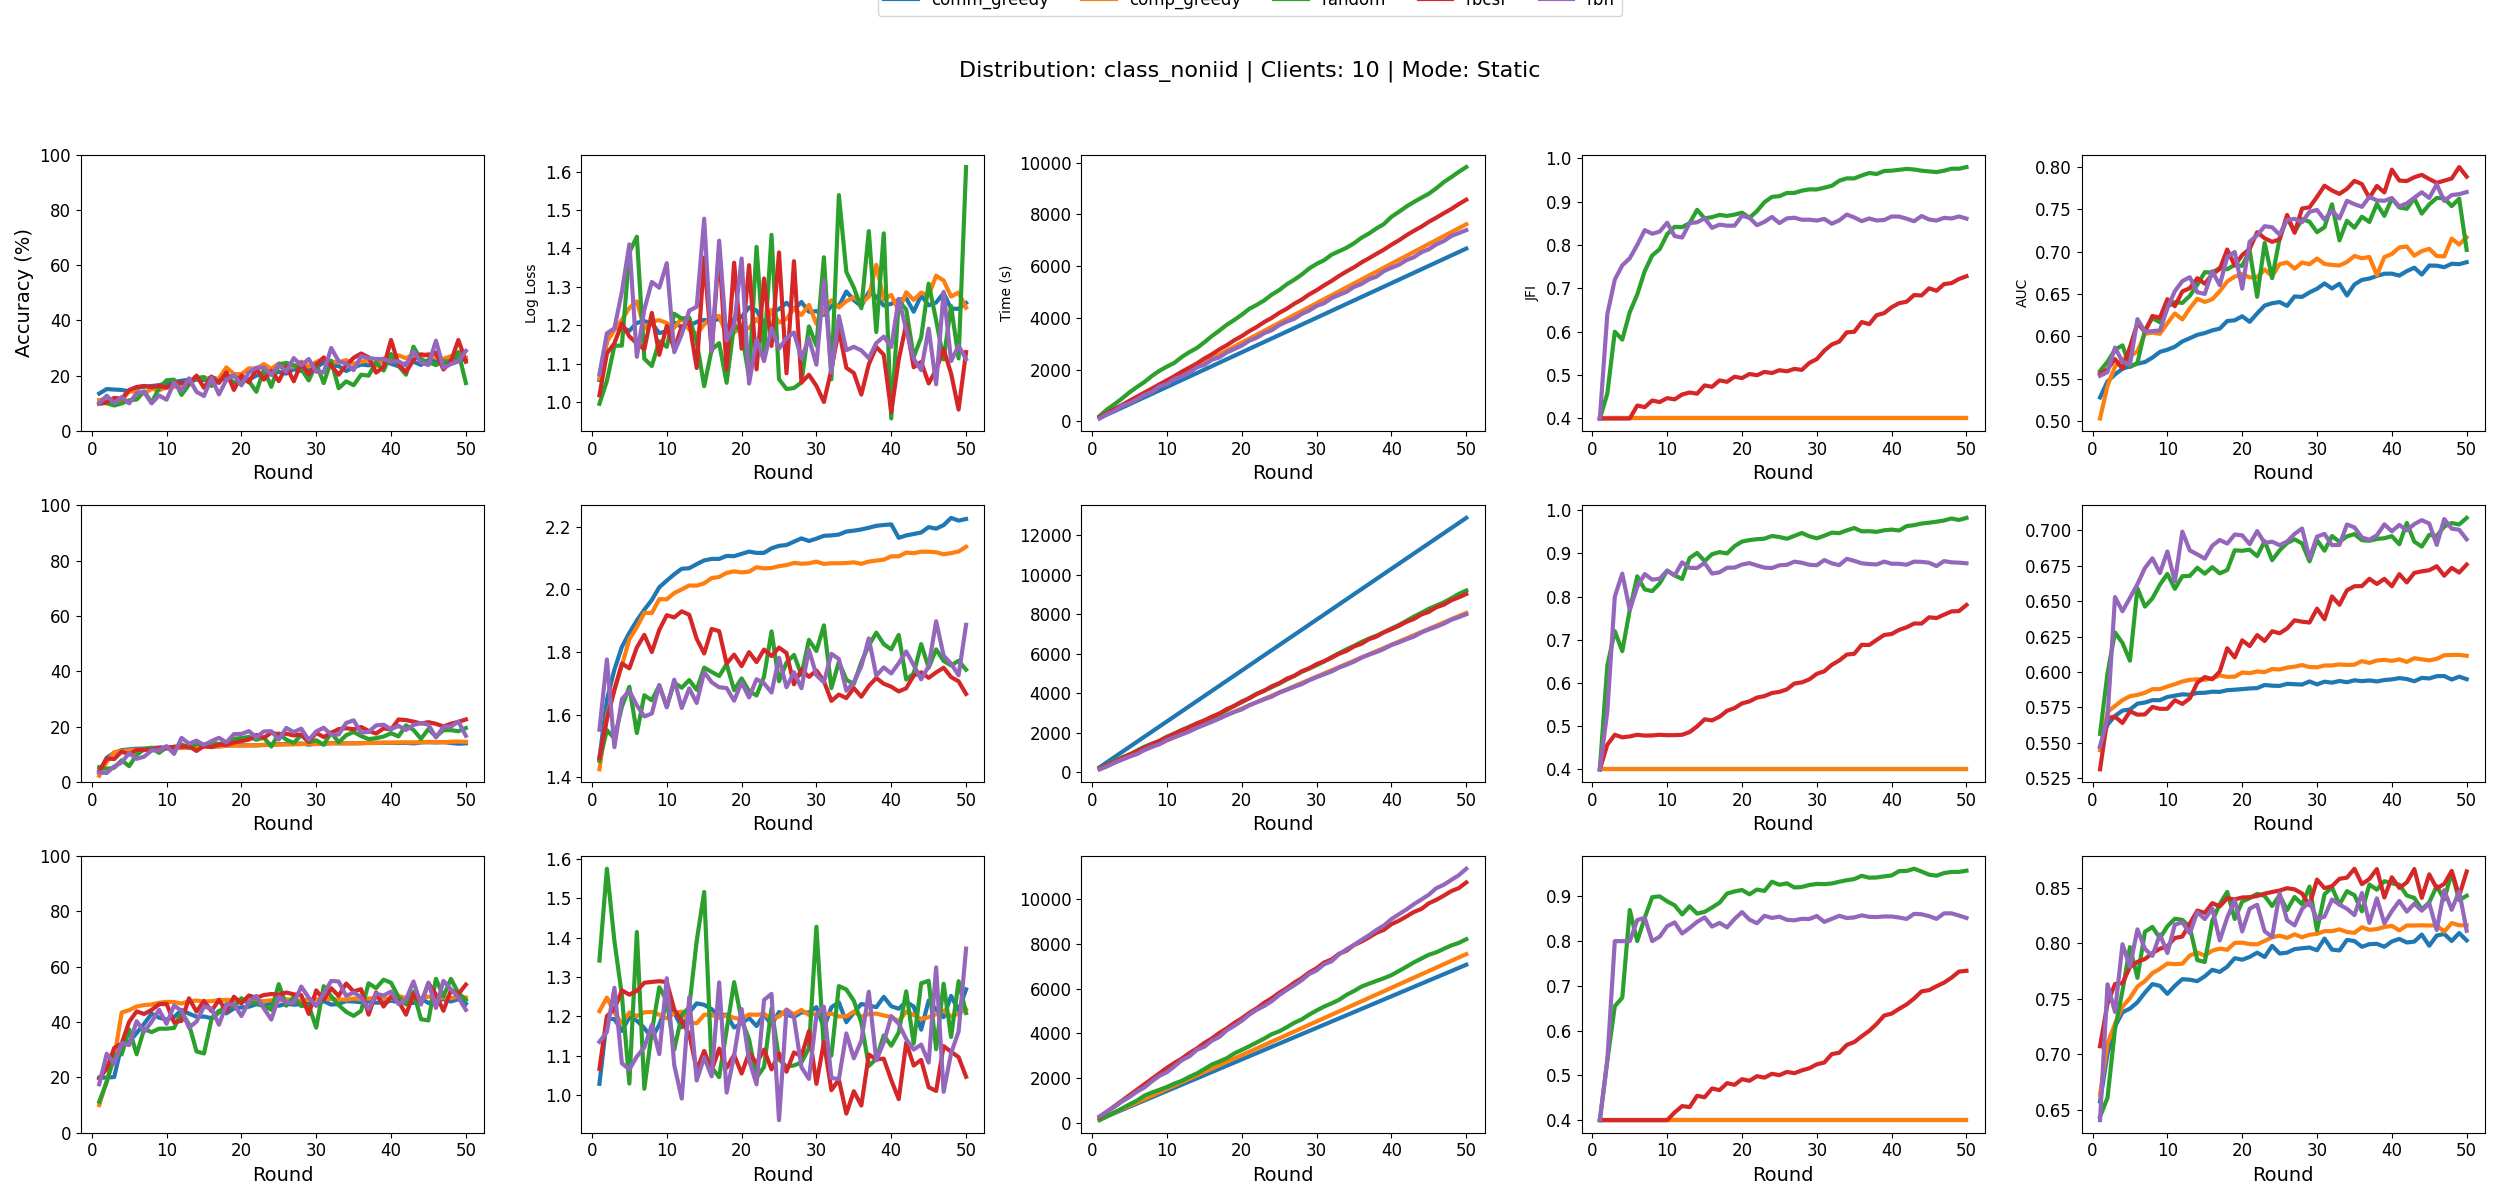
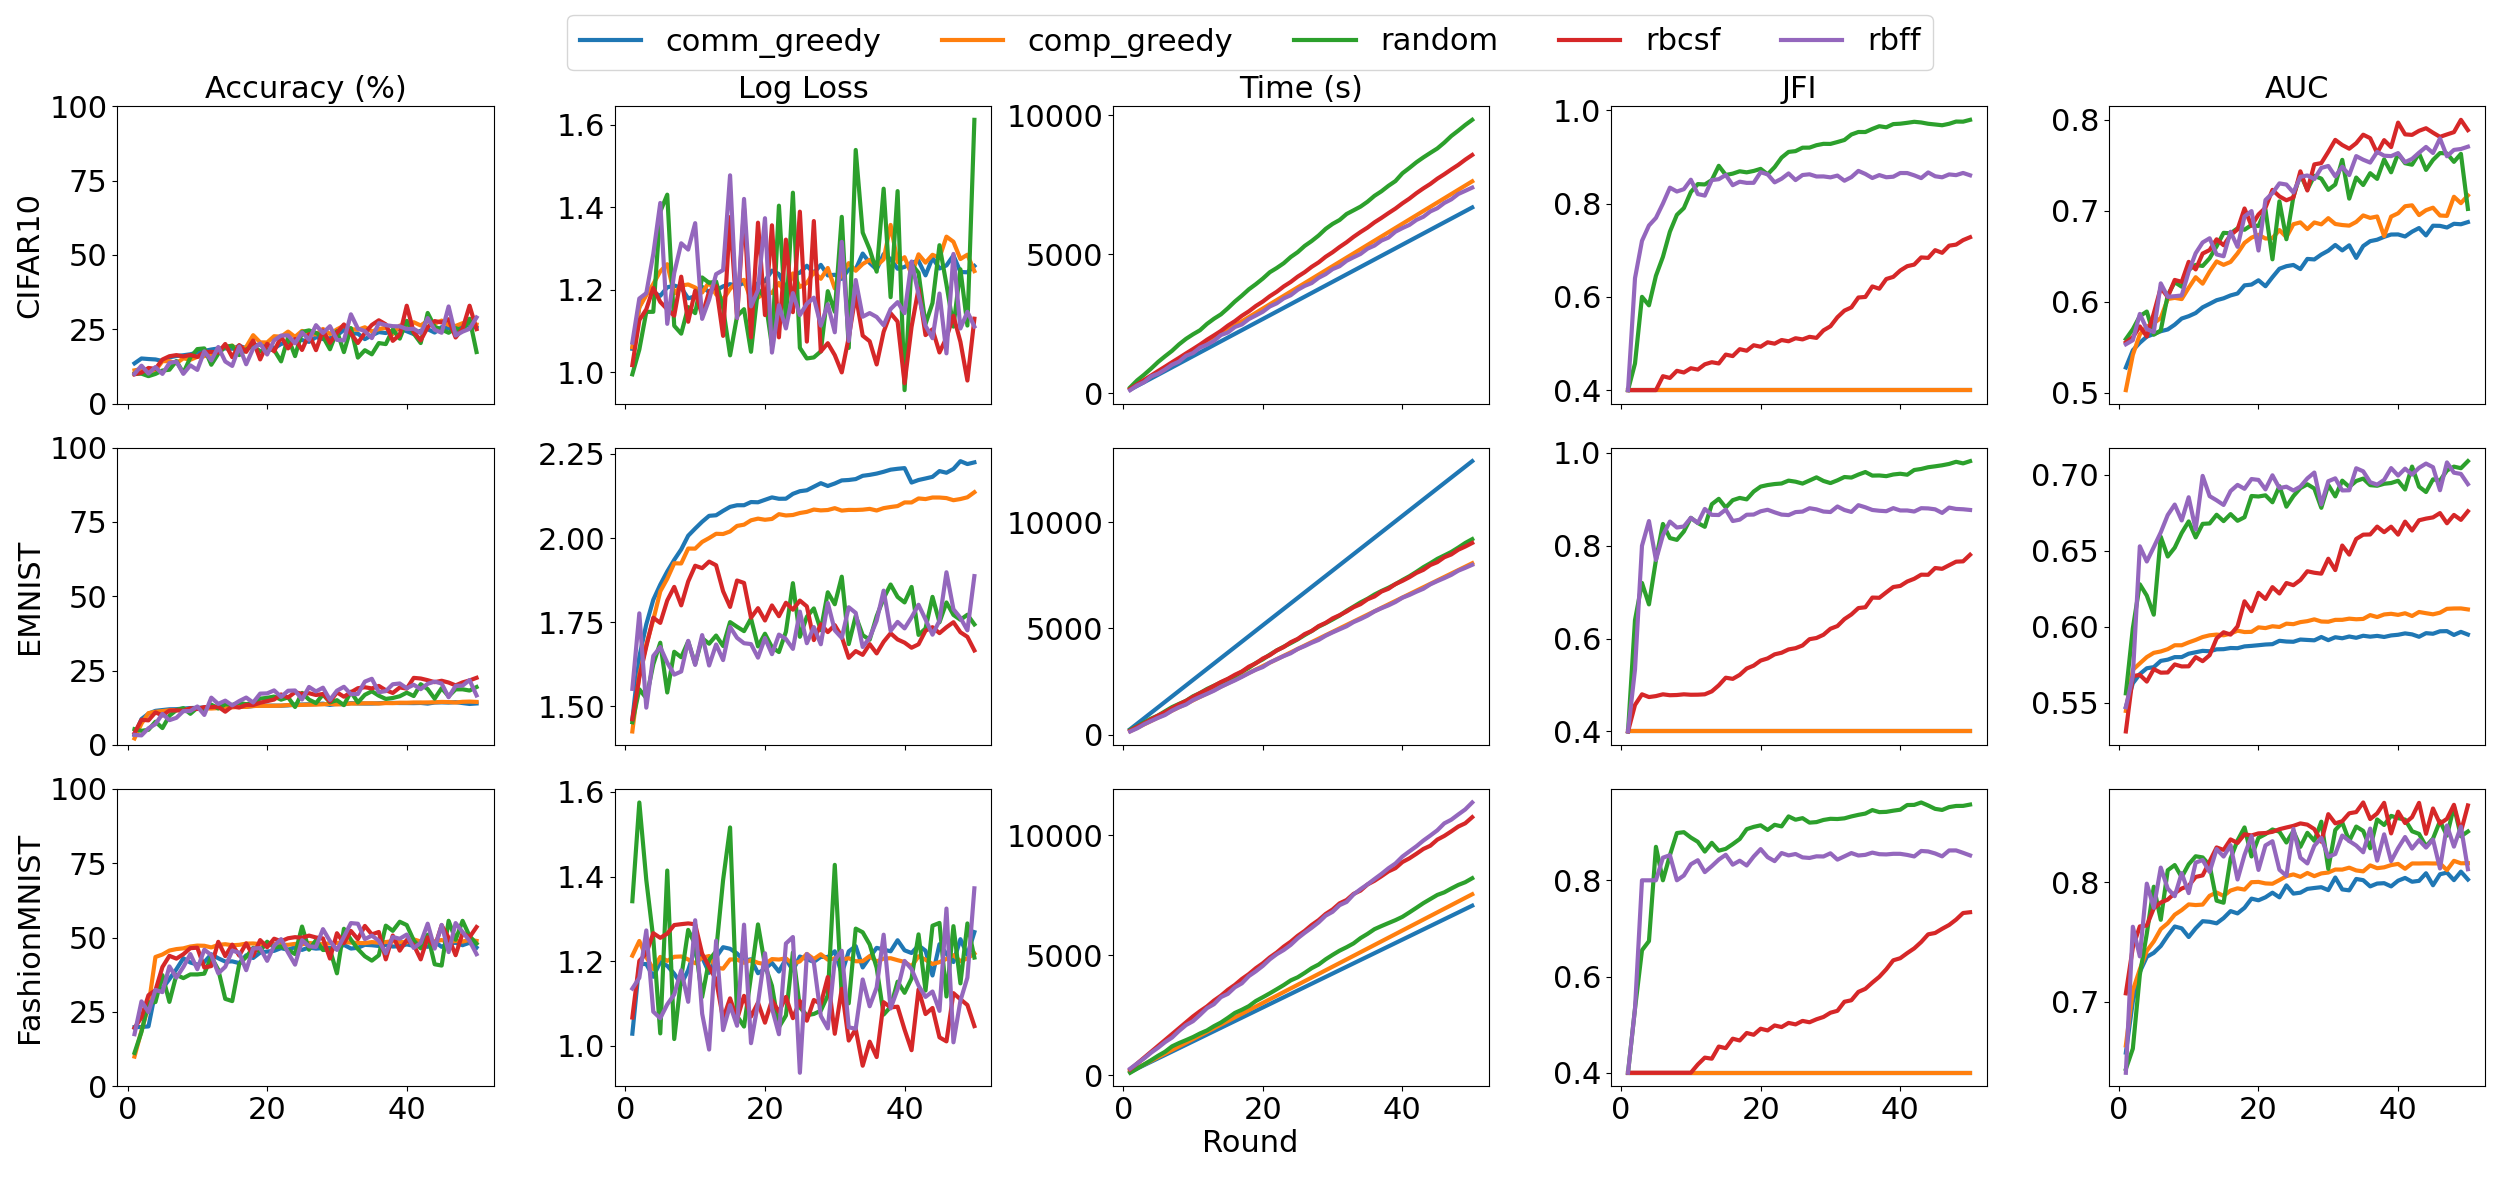
add new code

diff --git a/plot_tradeoff.py b/plot_tradeoff.py
@@ -1,93 +1,161 @@
 import os
-import glob
 import pandas as pd
 import matplotlib.pyplot as plt
 
-def load_all(results_dir):
-    """
-    Returns a dict:
-      data[experiment_type][strategy][dataset][split] → DataFrame
-    where experiment_type ∈ {'by_clients','by_rate'},
-          split ∈ {'iid','qty','class'}.
-    """
-    data = {'by_clients':{}, 'by_rate':{}}
-    for exp in data:
-        for csv_path in glob.glob(os.path.join(results_dir, exp, '*.csv')):
-            fname = os.path.basename(csv_path).replace('.csv','')
-            ds, tag, strat, mode = fname.split('_',3)
-            # tag is like '10cli_iid' or '30pct_class'
-            if strat not in data[exp]:
-                data[exp][strat] = {}
-            if ds not in data[exp][strat]:
-                data[exp][strat][ds] = {}
-            # extract split and x-value
-            if 'cli' in tag:
-                x_val, split = tag.split('cli_')
-                x_val = int(x_val)
-            else:
-                x_val, split = tag.split('pct_')
-                x_val = int(x_val)
-            df = pd.read_csv(csv_path)
-            df['x'] = x_val
-            df['split'] = split
-            df['mode'] = mode  # 'static' or 'dynamic'
-            data[exp][strat][ds][split + '_' + mode] = df
-    return data
 
-def plot_experiment(data, experiment_type, x_label):
+plt.rcParams.update({
+    "font.size":        16,   # base font size for text
+    "axes.titlesize":   16,   # subplot title
+    "axes.labelsize":   16,   # x- and y-axis labels
+    "xtick.labelsize":  16,   # x-tick labels
+    "ytick.labelsize":  16,   # y-tick labels
+    "legend.fontsize":  16,   # legend text
+})
 
-    strategies = sorted(data[experiment_type].keys())
-    datasets = sorted(next(iter(data[experiment_type].values())).keys())
-    fig, axes = plt.subplots(1, len(strategies), figsize=(5*len(strategies), 4), sharey=False)
-    for ax, strat in zip(axes, strategies):
-        ax2 = ax.twinx()
-        for ds in datasets:
-            for split in ['iid','qty','class']:
-                for mode, ls in [('static','--'),('dynamic','-')]:
-                    key = f"{split}_{mode}"
-                    df = data[experiment_type][strat][ds].get(key)
-                    if df is None: continue
-                    # sort by x
-                    df = df.sort_values('x')
-                    # accuracy on left y
-                    ax.plot(df['x'], df['acc']*100,
-                            linestyle=ls, marker='o',
-                            label=f"{ds}-{split}-{mode}")
-                    # jfi on right y
-                    ax2.plot(df['x'], df['jfi'],
-                             linestyle=ls, marker='x')
-        ax.set_title(strat)
-        ax.set_xlabel(x_label)
-        ax.set_ylim(0, 100)
-        ax2.set_ylim(0, 1)
-        if ax is axes[0]:
-            ax.set_ylabel('Accuracy (%)')
-            ax2.set_ylabel('JFI')
-        # build custom legend once on top
-    handles, labels = [], []
-    for ds in datasets:
-        for split in ['iid','qty','class']:
-            handles.append(plt.Line2D([],[], color='black', linestyle='-', marker='o'))
-            labels.append(f"{ds}-{split}-dynamic")
-            handles.append(plt.Line2D([],[], color='black', linestyle='--', marker='o'))
-            labels.append(f"{ds}-{split}-static")
-    fig.legend(handles, labels, loc='upper center', ncol=3*len(datasets))
-    fig.tight_layout(rect=[0,0,1,0.9])
-    return fig
 
-if __name__ == "__main__":
-    import argparse
-    parser = argparse.ArgumentParser()
-    parser.add_argument('--results_dir', type=str, default='results_tradeoff')
-    args = parser.parse_args()
+# # --- Configuration ---
+# datasets      = ["EMNIST", "FashionMNIST", "CIFAR10"]
+# clients       = [10, 20, 30, 40, 50]
+# methods       = ["comm_greedy", "comp_greedy", "random", "rbff", "rbcsf"]
+# display_names = {
+#     "random":      "Random",
+#     "comm_greedy": "Comm_Greedy",
+#     "comp_greedy": "Comp_Greedy",
+#     "rbff":        "RBFF",
+#     "rbcsf":       "RBCSF",
+# }
+# distribution = "iid"
+# data_dir     = "results_tradeoff/by_clients"
 
-    data = load_all(args.results_dir)
-    # Plot #1: by number of clients
-    fig1 = plot_experiment(data, 'by_clients', x_label='Number of clients')
-    fig1.savefig('accuracy_jfi_by_clients.png', dpi=300)
+# # --- Figure setup: each subplot region is 5×5 inches, so square ---
+# subplot_size = 5  # inches
+# n_methods    = len(methods)
+# fig, axes    = plt.subplots(
+#     1, n_methods,
+#     figsize=(subplot_size * n_methods, subplot_size),
+#     sharey=False
+# )
+# colors = plt.rcParams['axes.prop_cycle'].by_key()['color']
 
-    # Plot #2: by participation rate
-    fig2 = plot_experiment(data, 'by_rate', x_label='Participation rate (%)')
-    fig2.savefig('accuracy_jfi_by_rate.png', dpi=300)
+# # Collect legend entries from first subplot
+# legend_handles, legend_labels = [], []
 
-    print("Plots saved: accuracy_jfi_by_clients.png, accuracy_jfi_by_rate.png")
+# for idx, (ax, method) in enumerate(zip(axes, methods)):
+#     ax2 = ax.twinx()
+
+#     for di, dataset in enumerate(datasets):
+#         accs, jf_is = [], []
+#         for n in clients:
+#             fname = f"{dataset}_{n}cli_{distribution}_{method}_dynamic.csv"
+#             path  = os.path.join(data_dir, fname)
+#             df    = pd.read_csv(path)
+#             accs.append(df["acc"].iloc[-1])
+#             jf_is.append(df["jfi"].iloc[-1])
+
+#         color = colors[di]
+#         ax.plot(clients, accs,
+#                 label=f"{dataset} ACC",
+#                 linestyle="solid",
+#                 color=color)
+#         ax2.plot(clients, jf_is,
+#                  label=f"{dataset} JFI",
+#                  linestyle="dashed",
+#                  color=color)
+
+#     # x-ticks and axis limits
+#     ax.set_xticks(clients)
+#     ax.set_ylim(0.2, 1.0)
+#     ax2.set_ylim(0.9, 1.0)
+
+#     # method name underneath
+#     ax.set_xlabel(display_names[method], labelpad=12, fontsize=12)
+
+#     # only first subplot gets y-labels and legend capture
+#     if idx == 0:
+#         ax.set_ylabel("Accuracy")
+#         ax2.set_ylabel("JFI")
+
+#         h1, l1 = ax.get_legend_handles_labels()
+#         h2, l2 = ax2.get_legend_handles_labels()
+#         legend_handles = h1 + h2
+#         legend_labels  = l1 + l2
+
+# # global legend at top
+# fig.legend(
+#     legend_handles,
+#     legend_labels,
+#     loc="upper center",
+#     ncol=len(legend_labels)//2,
+#     frameon=False,
+#     bbox_to_anchor=(0.5, 1.04),
+    
+# )
+
+
+# --- Configuration ---
+datasets     = ["EMNIST", "FashionMNIST", "CIFAR10"]
+percentages  = [10, 20, 30, 40, 50, 60, 70, 80, 90, 100]
+methods      = ["comm_greedy", "comp_greedy", "random", "rbff", "rbcsf"]
+distribution = "iid"
+data_dir     = "results_tradeoff/by_rate"
+
+# --- Set up figure ---
+fig, axes = plt.subplots(1, len(methods), figsize=(25, 5), sharey=False)
+colors    = plt.rcParams['axes.prop_cycle'].by_key()['color']
+
+# Collect legend entries from first subplot
+legend_handles = []
+legend_labels  = []
+
+for mi, (ax, method) in enumerate(zip(axes, methods)):
+    ax2 = ax.twinx()
+    for di, dataset in enumerate(datasets):
+        accs, jf_is = [], []
+        for p in percentages:
+            fname = f"{dataset}_{p}pct_{distribution}_{method}_dynamic.csv"
+            fpath = os.path.join(data_dir, fname)
+            df    = pd.read_csv(fpath)
+            # take the final round’s metrics
+            accs.append(df["acc"].iloc[-1])
+            jf_is.append(df["jfi"].iloc[-1])
+
+        color = colors[di]
+        ax.plot(percentages, accs,
+                label=f"{dataset} ACC",
+                linestyle="solid",
+                color=color)
+        ax2.plot(percentages, jf_is,
+                 label=f"{dataset} JFI",
+                 linestyle="dashed",
+                 color=color)
+
+    ax.set_title(method.replace("_", " ").title())
+    ax.set_xlabel("Percentage of Data (%)")
+    ax.set_xticks(percentages)
+    if mi == 0:
+        ax.set_ylabel("Accuracy")
+        ax2.set_ylabel("JFI")
+        # capture legend entries once
+        h1, l1 = ax.get_legend_handles_labels()
+        h2, l2 = ax2.get_legend_handles_labels()
+        legend_handles = h1 + h2
+        legend_labels  = l1 + l2
+
+# --- Add common legend ---
+fig.legend(
+    legend_handles,
+    legend_labels,
+    loc="upper center",
+    ncol=len(legend_labels)//2,
+    frameon=False,
+    bbox_to_anchor=(0.5, 1.05)
+)
+
+plt.tight_layout(rect=[0, 0, 1, 0.95])
+fname = "percentage_jfiacc_dynamic"
+save_path = os.path.join("plots", fname)
+fig.savefig(save_path)
+plt.close(fig)
+print(f"Saved plot: {save_path}")
+plt.show()
+

diff --git a/plotting.py b/plotting.py
@@ -1,3 +1,4 @@
+#!/usr/bin/env python3
 import os
 import pandas as pd
 import matplotlib.pyplot as plt
@@ -22,7 +23,6 @@ def parse_args():
         help='Directory to save generated plots'
     )
     return parser.parse_args()
-
 
 def load_results(results_dir):
     records = []
@@ -67,27 +67,25 @@ def load_results(results_dir):
         except Exception as e:
             print(f"Warning: could not read {fname}: {e}")
             continue
-        df['dataset'] = dataset
-        df['clients'] = clients
-        df['distribution'] = distribution
-        df['strategy'] = strategy
-        df['mode'] = mode
+        df['dataset']     = dataset
+        df['clients']     = clients
+        df['distribution']= distribution
+        df['strategy']    = strategy
+        df['mode']        = mode
         records.append(df)
 
     if not records:
         raise RuntimeError(f"No valid CSV files found in {results_dir}")
     return pd.concat(records, ignore_index=True)
 
-
 def generate_plots(df, output_dir):
-    # now include 'auc' as a fifth metric
-    metrics = ['acc', 'loss', 'time', 'jfi', 'auc']
-    ylabels = ['Accuracy (%)', 'Log Loss', 'Time (s)', 'JFI', 'AUC']
+    metrics    = ['acc', 'loss', 'time', 'jfi', 'auc']
+    col_titles = ['Accuracy (%)', 'Log Loss', 'Time (s)', 'JFI', 'AUC']
 
-    datasets     = sorted(df['dataset'].unique())
-    distributions= sorted(df['distribution'].unique())
-    clients_list = sorted(df['clients'].unique())
-    modes        = sorted(df['mode'].unique())
+    datasets      = sorted(df['dataset'].unique())
+    distributions = sorted(df['distribution'].unique())
+    clients_list  = sorted(df['clients'].unique())
+    modes         = sorted(df['mode'].unique())
 
     for mode in modes:
         df_mode = df[df['mode'] == mode]
@@ -98,19 +96,19 @@ def generate_plots(df, output_dir):
                 if df_sub.empty:
                     continue
 
-                # 3 rows (datasets) x 5 cols (metrics)
+                n_rows = len(datasets)
+                n_cols = len(metrics)
                 fig, axes = plt.subplots(
-                    nrows=len(datasets), ncols=len(metrics),
-                    figsize=(5 * len(metrics), 4 * len(datasets))
+                    nrows=n_rows, ncols=n_cols,
+                    figsize=(5 * n_cols, 4 * n_rows),
+                    sharex=True
                 )
 
-                subtitle_text = f"Distribution: {distribution} | Clients: {clients} | Mode: {mode.capitalize()}"
-                fig.suptitle(subtitle_text, fontsize=16, y=0.95)
-
+                # Plot each cell
                 for i, dataset in enumerate(datasets):
                     df_data = df_sub[df_sub['dataset'] == dataset]
                     for j, metric in enumerate(metrics):
-                        ax = axes[i][j] if len(datasets) > 1 else axes[j]
+                        ax = axes[i][j] if n_rows > 1 else axes[j]
                         for strategy in sorted(df_data['strategy'].unique()):
                             strat_df = df_data[df_data['strategy'] == strategy]
                             x = strat_df['round']
@@ -120,42 +118,40 @@ def generate_plots(df, output_dir):
                                 y = np.log(strat_df['loss'])
                             else:
                                 y = strat_df[metric]
-                            ax.plot(
-                                x, y,
-                                label=strategy,
-                                linewidth=3
-                            )
-                        # Axis scaling and labels
+                            ax.plot(x, y, label=strategy, linewidth=3)
+
+                        # Adjustments
                         if metric == 'acc':
                             ax.set_ylim(0, 100)
+                        if i == 0:
+                            ax.set_title(col_titles[j], fontsize=22)
                         if j == 0:
-                            ax.set_ylabel(dataset, fontsize=14)
-                        ax.set_xlabel('Round', fontsize=14)
-                        ax.set_title('')        # remove individual subplot titles
-                        ax.tick_params(axis='both', labelsize=12)
+                            ax.set_ylabel(dataset, fontsize=22)
+                        ax.tick_params(axis='both', labelsize=22)
+                        ax.set_xlabel('')  # we'll add a global label
 
-                        # only set y-label on the top row for clarity
-                        ax.set_ylabel(ylabels[j] if i == 0 else '')
+                # Global "Round" label
+                fig.text(0.5, 0.04, 'Round', ha='center', fontsize=22)
 
-                # Shared legend on top, horizontal
+                # Legend at top center
                 handles, labels = axes[0][0].get_legend_handles_labels()
                 fig.legend(
                     handles, labels,
                     loc='upper center',
                     ncol=len(labels),
-                    fontsize=12,
-                    bbox_to_anchor=(0.5, 1.02)
+                    fontsize=22,
+                    bbox_to_anchor=(0.5, 1)
                 )
 
-                plt.tight_layout(rect=[0, 0, 1, 0.92])
+                plt.tight_layout(rect=[0, 0.05, 1, 0.95])
 
-                # Save figure
+                # Save
+                os.makedirs(output_dir, exist_ok=True)
                 fname = f"{distribution}_{clients}_{mode}.png"
                 save_path = os.path.join(output_dir, fname)
                 fig.savefig(save_path)
                 plt.close(fig)
                 print(f"Saved plot: {save_path}")
-
 
 if __name__ == '__main__':
     args = parse_args()

diff --git a/run_tradeoff.py b/run_tradeoff.py
@@ -269,7 +269,7 @@ def main():
 
     # prepare datasets
     datasets = {
-        'EMNIST': EMNIST('../data/emnist', split='balanced', download=True, transform=transforms.ToTensor()),
+        # 'EMNIST': EMNIST('../data/emnist', split='balanced', download=True, transform=transforms.ToTensor()),
         'FashionMNIST': FashionMNIST('../data', download=True, transform=transforms.ToTensor()),
         'CIFAR10': CIFAR10('../data', download=True, transform=transforms.ToTensor())
     }
